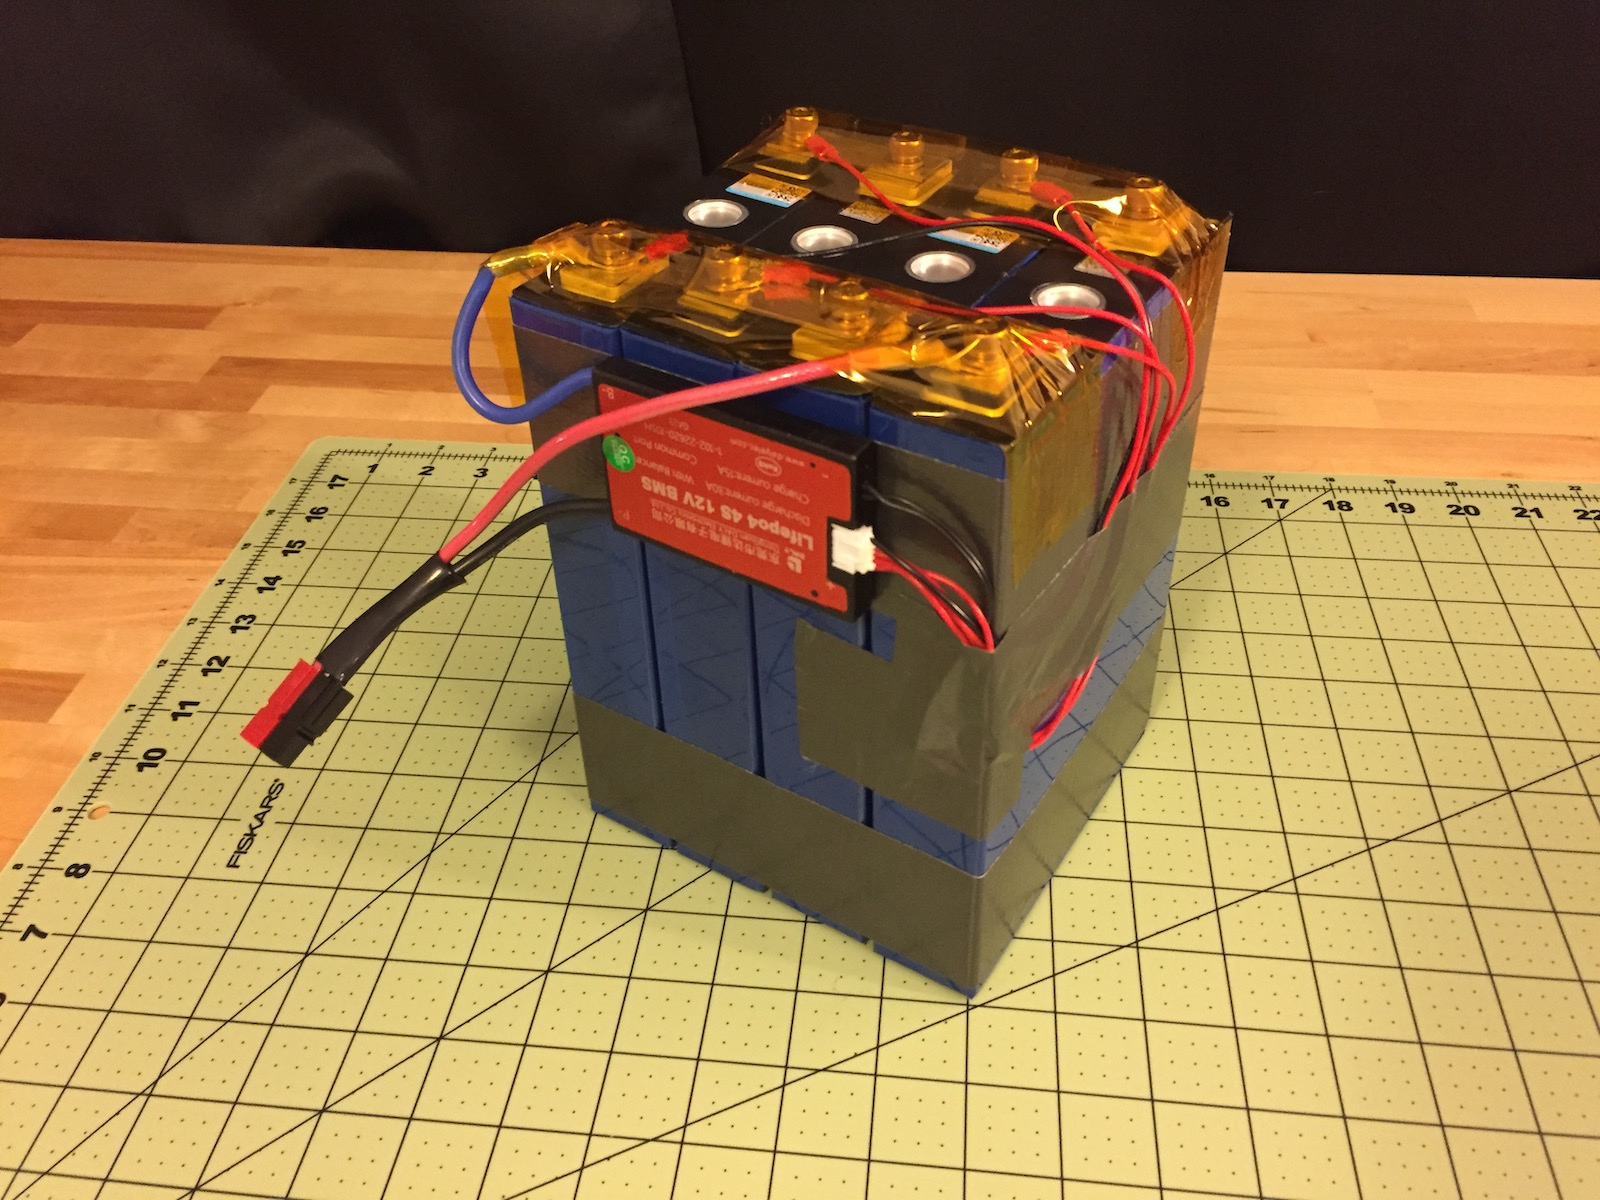
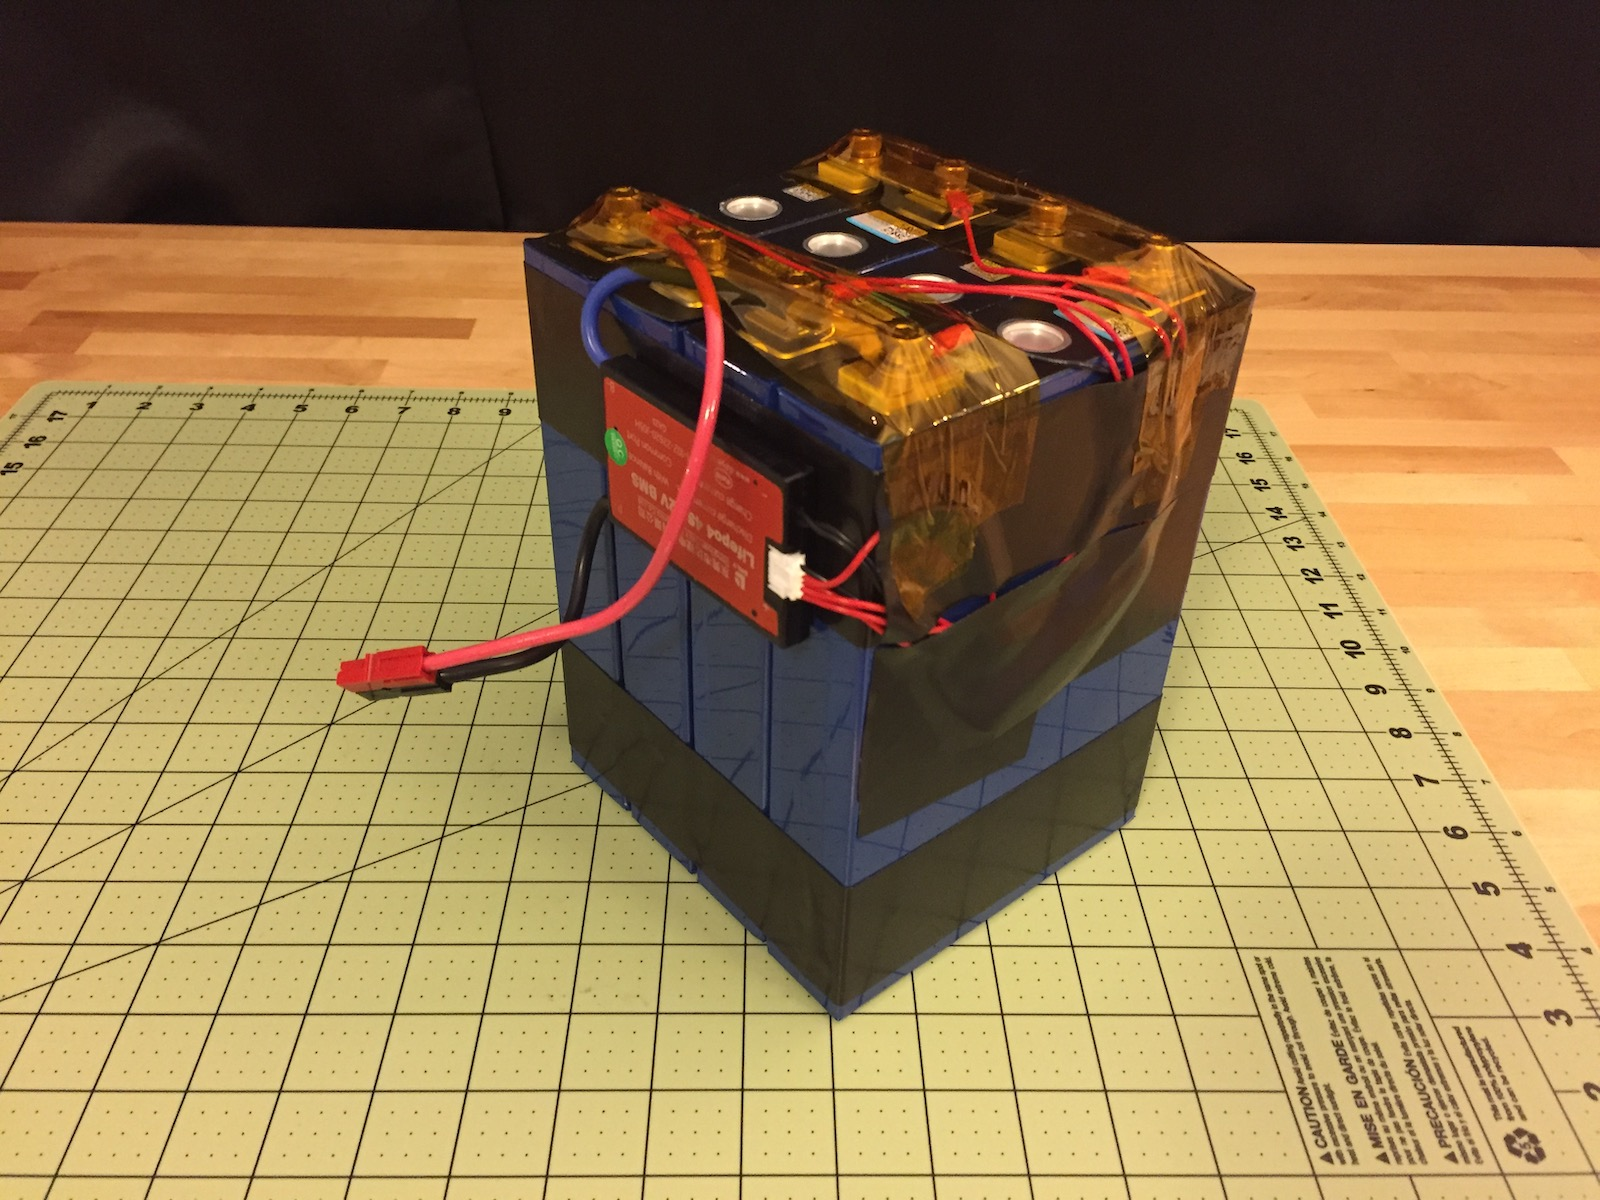
Kenny's suggestions

diff --git a/README.md b/README.md
@@ -10,7 +10,7 @@ by the high cost of lithium batteries from reputable manufacturers. Then I learn
 can be bought directly from China from manufacturers that are perhaps less reputable for _way_
 cheaper. These make building batteries inexpensive and fun! This 95Ah battery and the accessories
 cost a total of about $225, not including the charger. A 100Ah LiFePO4 battery from a reputable
-manufacturer like Battle Born costs most of $1000, so I'm happy with this one.
+manufacturer like Battle Born costs most of $1000, so I'm happy with how this project turned out.
 
 The cells I bought have the Lithium Iron Phosphate (LiFePO4) chemistry. It's a good chemistry for
 radio amateurs because:
@@ -132,16 +132,18 @@ if they might be used. Terminal screws and connector bars were included as expec
 
 I've read that sometimes grade 'B' cells have the QR codes scratched off so no one will think they're under warranty, but these have QR codes and the word "scratch" instead of a serial number. ![qr code](images/qr-code.jpg)
 The QR code is just a link to the VariCore website. You can see that the terminals have had
-fasteners attached, not sure if just for testing. The domed lid between the terminals is a pressure-relief
-pop-off deal.
+fasteners attached, not sure if just for testing. The domed lid between the terminals is a
+pressure-relief pop-off deal.
 
-Curiously, each cell has a black plastic ring around one terminal and a red spot in the other terminal.
-The one with the black ring is the _positive_ terminal and the one with the red spot is _negative_. That
-was not what I expected. A voltmeter is handy for checking things like this.
+Curiously, each cell has a black plastic ring around one terminal and a red spot in the other
+terminal. The one with the black ring is the _positive_ terminal and the one with the red spot is
+_negative_. That was not what I expected. A voltmeter is handy for checking things like this.
 
-The voltages of the cells must be close to the same before hooking them up to the BMS if they're to charge properly, although the BMS can balance them to a certain extent. 
-The instructions for my BMS say the cells should be within 0.05V. I measured 3.03V, 3.02V, 3.01V, 3.01V, so they're good to go. If they're too different you can connect them in parallel and let them sit while the
-voltages equalize.
+The voltages of the cells must be close to the same before hooking them up to the BMS if they're
+to charge properly, although the BMS can balance them to a certain extent. 
+The instructions for my BMS say the cells should be within 0.05V. I measured 3.03V, 3.02V, 3.01V,
+3.01V, so they're good to go. If they're too different you may need to charge the low cells
+independently, which will require a charger for a single cell or a bench power supply.
 
 #### Connect the Cells and BMS
 
@@ -150,13 +152,13 @@ careful when you're working on your cells with metal tools due to the risk of cr
 If you drop a metal wrench across a cell's terminals,
 there will be a short circuit and there could easily be enough current to weld
 the wrench to the terminals, with a possibility that molten metal could fly
-around at high speed and put your eye out. Wear safety glasses and maybe have a fire extinguisher handy.
-Maybe put electrical tape on your tools so only one end has metal exposed. Remove your "Mr. T"-style
-jewelry.
+around at high speed and put your eye out. Wear safety glasses and maybe have a fire extinguisher
+handy. Maybe put electrical tape on your tools so only one end has metal exposed. Remove
+your "Mr. T"-style jewelry.
 
-The Daly BMS has a blue wire that goes to the battery negative, and the large black wire will become
-the negative
-to the load after the BMS is connected. Then the BMS has a set of small wires (5 in this case) that
+The Daly BMS has a blue wire that goes to the battery negative, and the large black wire will
+become the negative to the load after the BMS is connected. Then the BMS has a set of small wires
+(5 in this case) that
 get connected to the cells. The small black wire goes to cell #1 negative, which is the main battery
 negative. The next adjacent red wire goes to cell #1 positive. The next
 wire goes to cell #2 positive, and so on. The last small wire will go to the last cell's positive
@@ -204,17 +206,19 @@ by attaching the BMS to the inside of the battery case somehow.
 
 ### Final Assembly
 
-I wrapped the cells tightly with duct tape to form a unit. These square cells expand and contract a
-little as they're charged and discharged, and compressing them helps limit that movement, so
-battery life should be extended.
+I stuck my cells to each other with squares of the 3M double-sided foam tape and then wrapped them
+all with gorilla tape. These prismatic cells expand and contract a little as they're charged and discharged,
+and the foam tape is meant to leave a little bit of space between cells for expansion. Some cell
+manufacturers recommend that their cells be compressed to improve their lifespan, but it might not
+be a big deal given how infrequently my battery will actually go through a discharge/charge cycle.
 
-Then I attached the BMS to the cells using some double-sided foam tape. I reinstalled the conductors
+Then I attached the BMS to the cells using more double-sided foam tape. I reinstalled the conductors
 between the cells and the balancing wires to the BMS, plus the large blue wire to the battery
-negative and a 10-gauge THHN wire to the battery positive. I put yellow Kapton electrical tape over the
+negative and a 12-gauge THHN wire to the battery positive. I put yellow Kapton tape over the
 terminals to prevent short circuits. Vinyl electrical tape should work okay too, but I'm hoping
-the Kapton tape will hold up better in the long run. Then I duct-taped the temperature sensor to
-one of the cells and duct-taped the BMS balancing wires so they won't get snagged on things.
-Use plenty of duct tape! I put a powerpole connector on the main positive and negative leads. I used
+the Kapton tape will hold up better in the long run. Then I gorilla-taped the temperature sensor to
+one of the cells and taped the BMS balancing wires so they won't get snagged on things.
+Use plenty of tape! I put a powerpole connector on the main positive and negative leads. I used
 the high-strength foam tape to stick the battery to the bottom of my bucket and used some left-over
 shipping foam around it &mdash; if the bucket gets knocked over, I don't want the wires to get yanked
 around.
@@ -222,22 +226,17 @@ around.
 ![assembled battery](images/battery.jpg)
 
 The user interface is in the lid. I sprang for a dual-powerpole panel-mount outlet from
-PowerWerx because I liked the (hopefully) rain-resistant cover, but it's grievously expensive
+PowerWerx because I liked the (somewhat?) rain-resistant cover, but it's grievously expensive
 for what it is &mdash; $25, including shipping. I found more affordable ones on EBay, but without
 the rain-resistant bit.
 
-I put binding posts on as well, I had them lying around but they're not expensive. My thinking is
-that there may be some 12V accessory we want to power but which doesn't have a powerpole plug; I can
-use my pocketknife to give it bare leads to attach to the binding posts, whereas I may not have
-a powerpole crimper to make a more professional connection.
-
 USB charging ports are nice for charging phones and things, and I have a USB reading lamp that
-I could use to light the desk at a field station. This one was $12 or so at Amazon, it has a
+I could use to light the desk at a field station. This USB socket was $12 or so at Amazon, and it has a
 voltmeter built in so it's easy to see whether the battery needs charging. It needs to be
 switched so it won't drain the battery, so I bought a cheap weather-resistant switch off of EBay.
 
-I did the wiring with 12ga THHN from a previous project and some crimp-on terminals. It's not
-too tricky:
+I did the wiring with 12ga THHN and some crimp-on terminals and wire nuts. It's not
+too tricky, mostly just connecting red wires to red wires and black to black:
 
 ![lid underside](images/under-lid.jpg)
 
